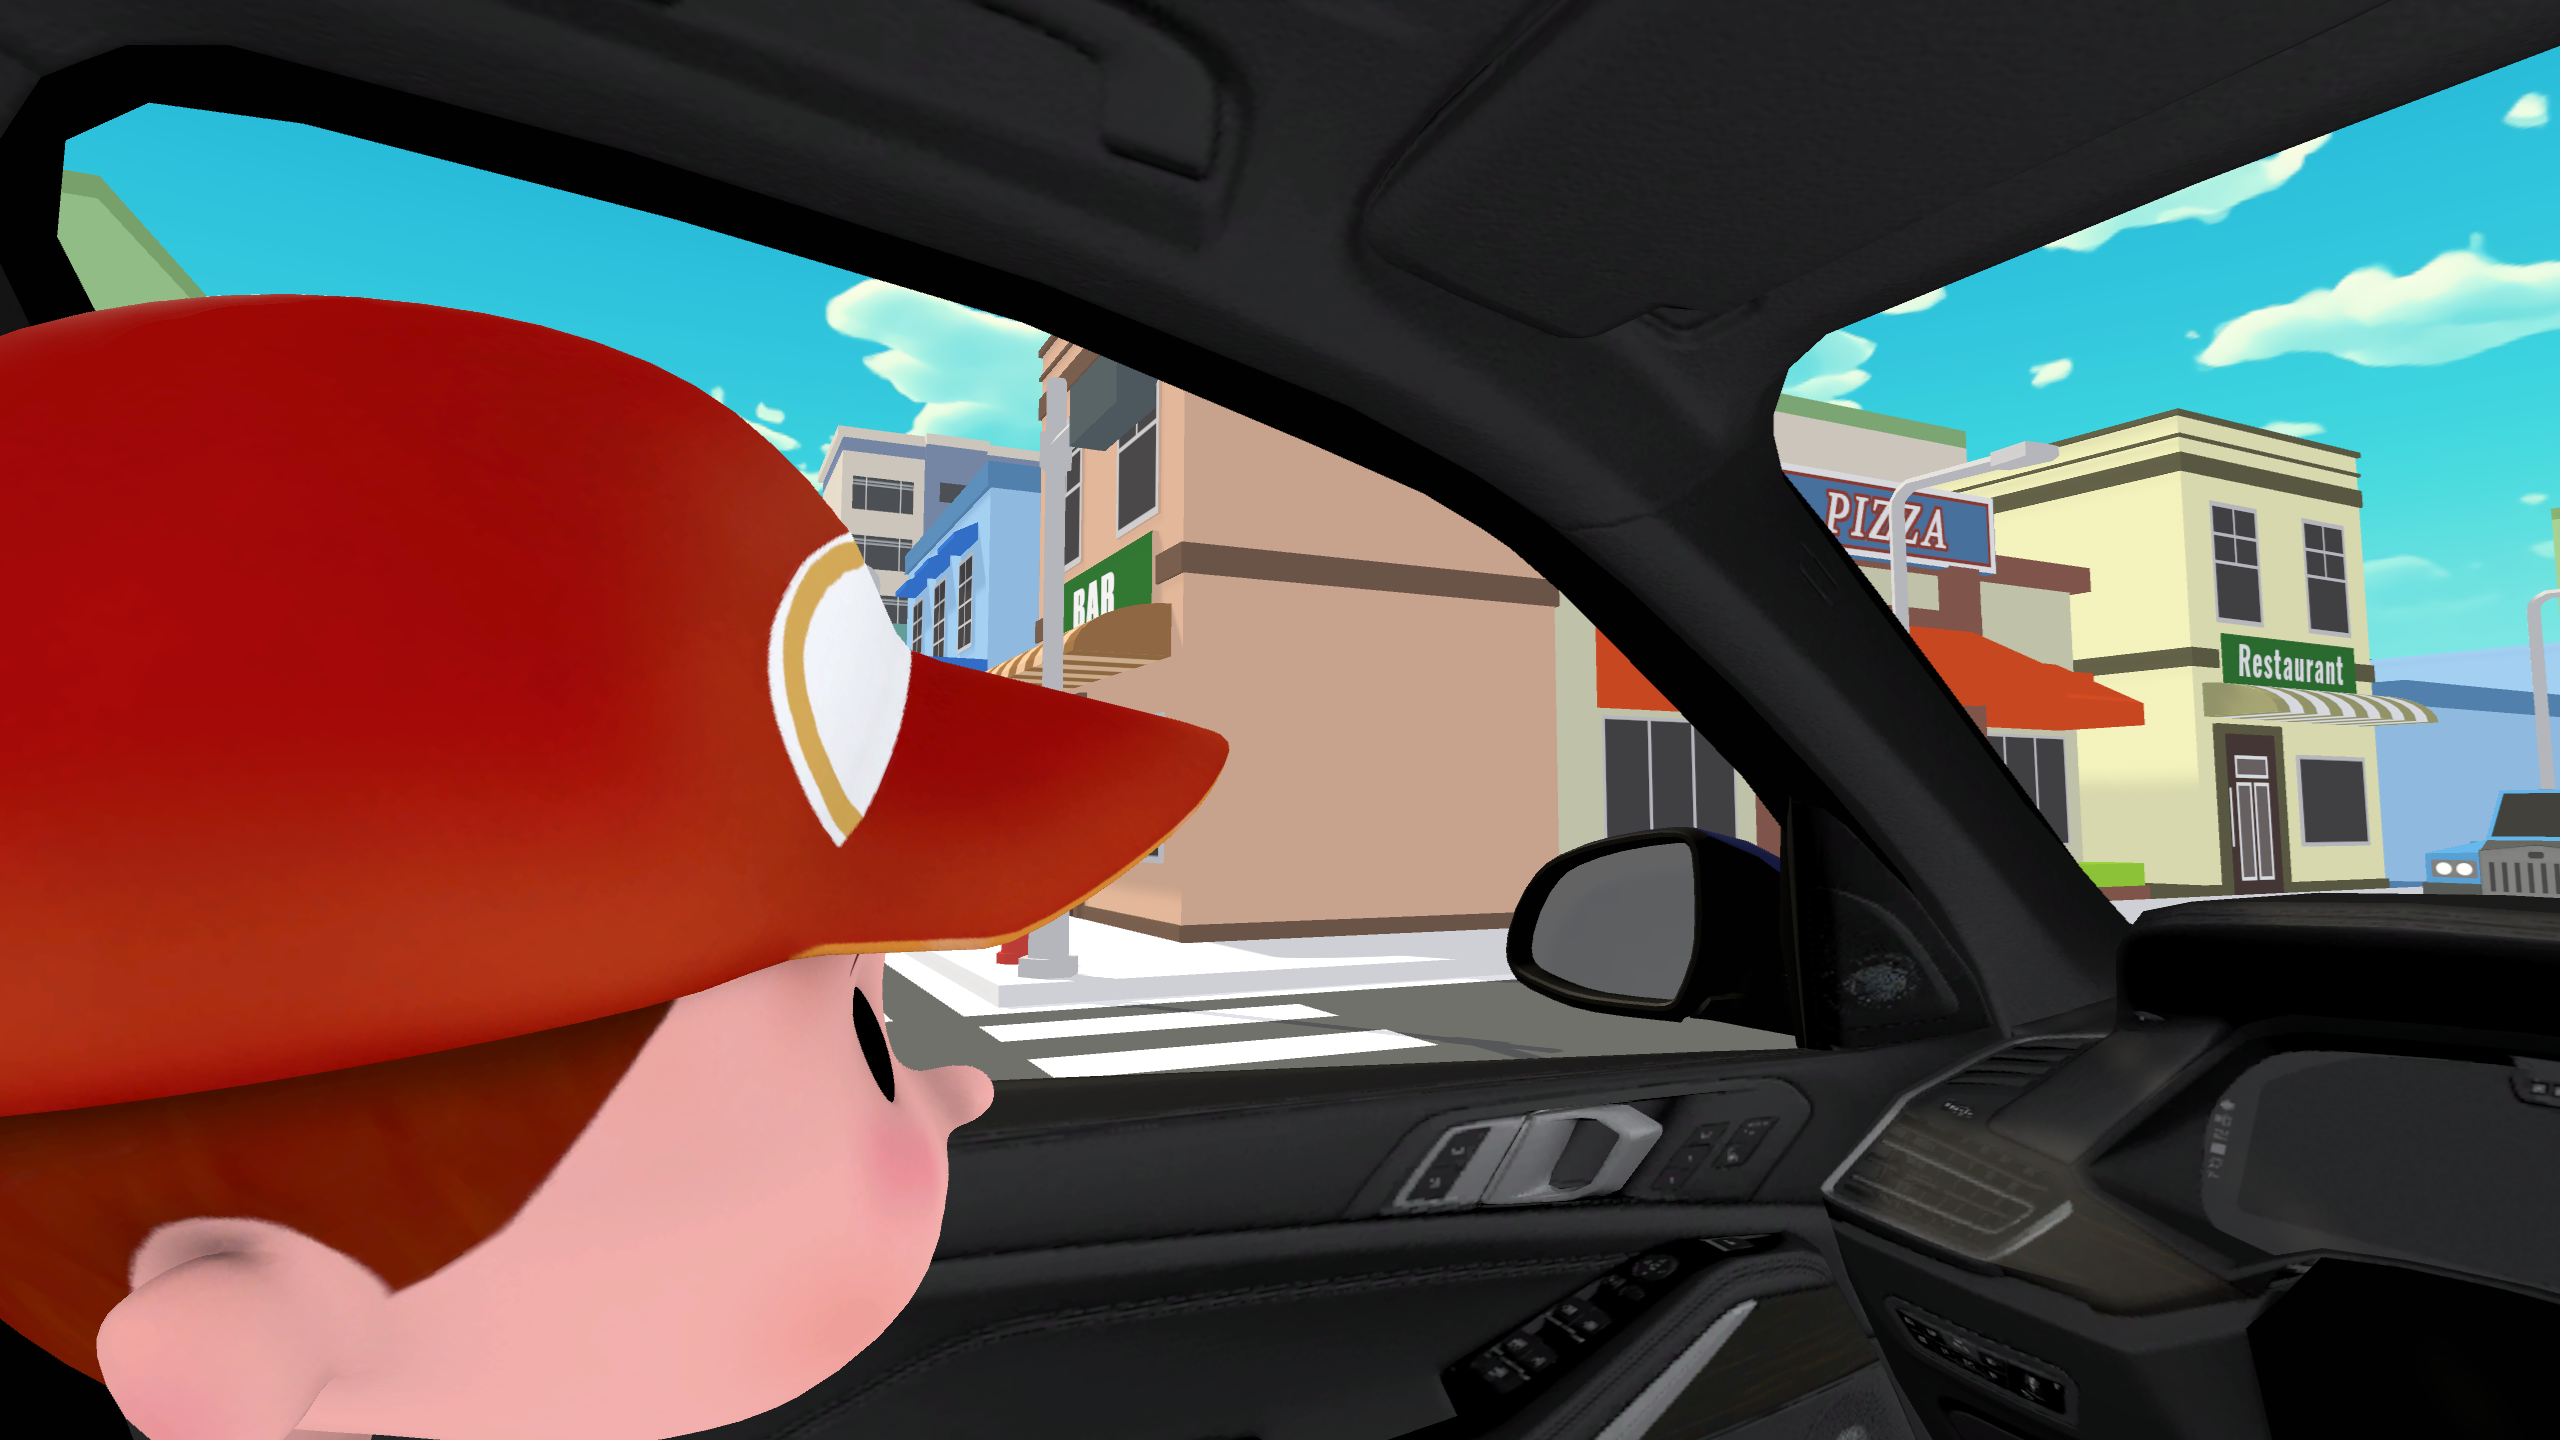
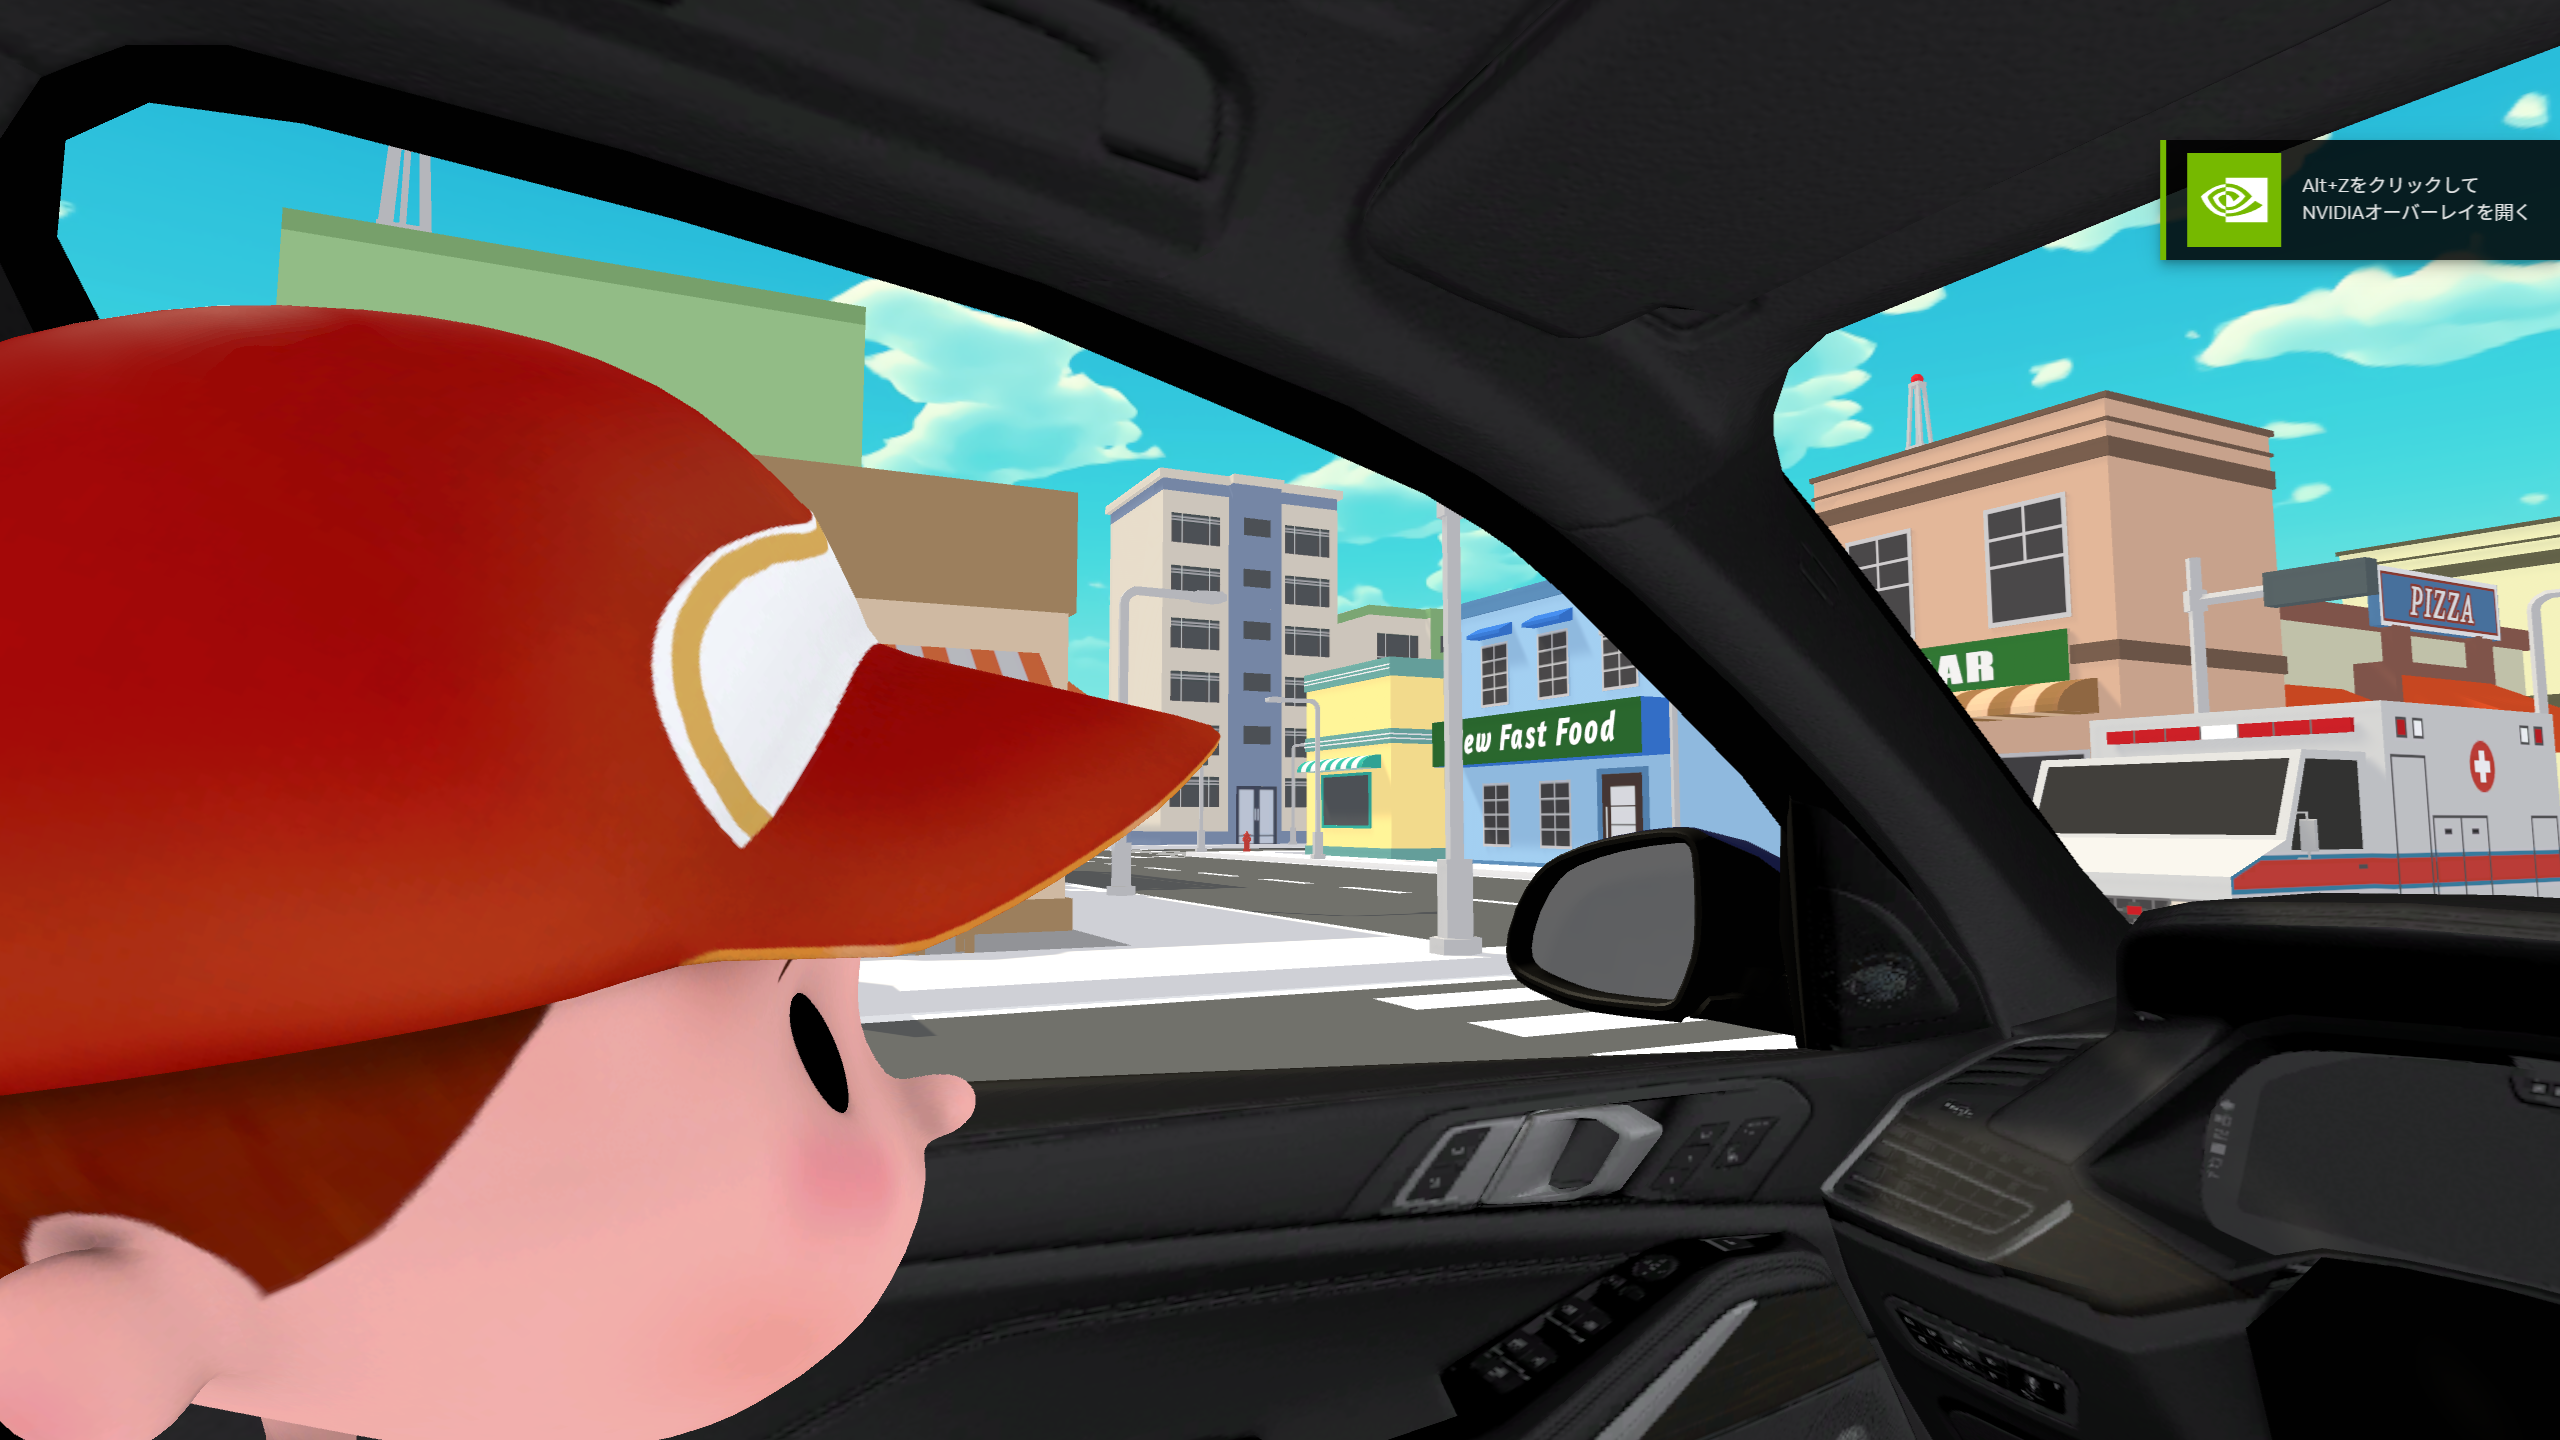
ストーリで使用する画像の変更、ステージセレクトで背景画像が表示されない不具合の修正
ストーリーで使用する画像の修正
背景画像を表示するif文が古いものだったので新しい条件の物に修正

diff --git a/Sources/Ui.cpp b/Sources/Ui.cpp
@@ -86,7 +86,7 @@ void UIManager::DrawUI(Player& _player) {
 	// fadeManager.ChangeUIState() → 第一引数 : どの画面に遷移するか指定, 第二引数, フェード処理を行うか指定
 
 	if (base.IsDrawInGame())DrawImage(0, 0, carWindow);
-	else if(uiManager.CheckScreen(TITLE)) DrawImage(0, 0, titleCarWindow);
+	else if(!uiManager.CheckScreen(STORY)) DrawImage(0, 0, titleCarWindow);
 
 	switch (currentScreen) {
 	case STORY:
